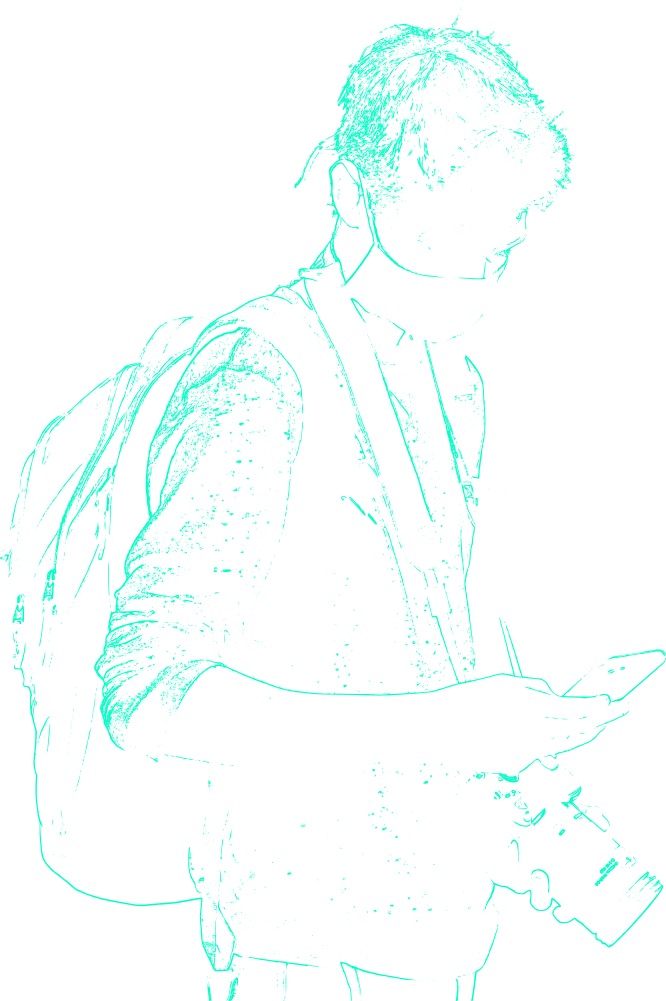
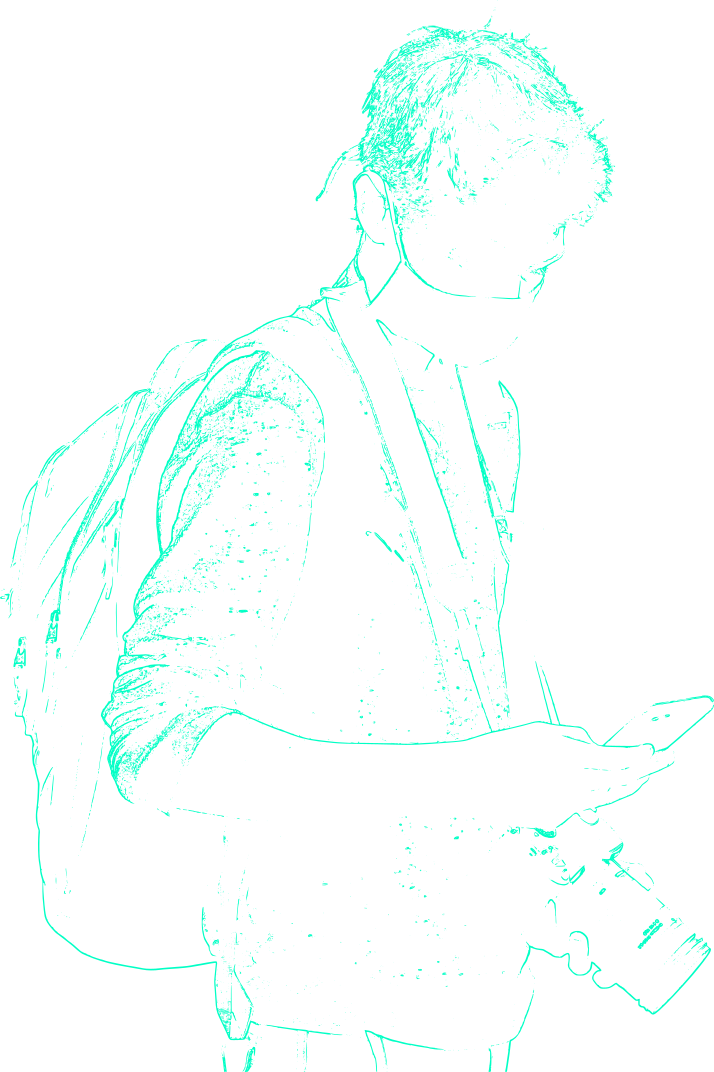
content update

diff --git a/work.html b/work.html
@@ -4,6 +4,7 @@
   <meta name="viewport" content="width=device-width, initial-scale=1">
   <link rel="stylesheet" href="scripts/prism.css">
   <link rel="stylesheet" type="text/css" href="styles.css">
+  <link rel="stylesheet" href="https://cdnjs.cloudflare.com/ajax/libs/font-awesome/4.7.0/css/font-awesome.min.css">
   <script src="scripts/jquery-3.7.0.min.js"></script>
   <script src="scripts/work-script.js"></script>
   <link rel="shortcut icon" type="image/png" href="favicon.png">
@@ -97,14 +98,7 @@
           </div>
           <div class="row">
             <div class="subtitle-text-left">
-              <p1>Source (HTML, CSS, JS)</p1>
-            </div>
-          </div>
-          <div class="row">
-            <div class="source-border">
-              <div class="code-text">
-                <pre data-src="https://raw.githubusercontent.com/7ds3f/7ds3f.github.io/main/placeholder.html"></pre>
-              </div>
+              <p1>< View source <a target="_blank" rel="noopener noreferrer" HREF="https://github.com/7ds3f/genre-viz">HERE.</a> ></p1>
             </div>
           </div>
           <div class="row">
@@ -119,14 +113,7 @@
           </div>
           <div class="row">
             <div class="subtitle-text-left">
-              <p1>Source (HTML, CSS, JS)</p1>
-            </div>
-          </div>
-          <div class="row">
-            <div class="source-border">
-              <div class="code-text">
-                <pre data-src="https://raw.githubusercontent.com/7ds3f/7ds3f.github.io/main/placeholder.html"></pre>
-              </div>
+              <p1>< View source <a target="_blank" rel="noopener noreferrer" HREF="https://github.com/7ds3f/cost-viz">HERE.</a> ></p1>
             </div>
           </div>
           <div class="divider-container">
@@ -141,7 +128,7 @@
             <div class="project-info">Python</div>
           </div>
           <div class="button-text-container">
-            <div class="button-text">Greyscale Spotify Playlist Generator</div>
+            <div class="button-text">Grayscale Spotify Playlist Generator</div>
           </div>
         </button>
         <div id="spotify-bot-cont" class="project-container" hidden>
@@ -150,13 +137,12 @@
                 <p1>This was a personal project with the goal being to learn how to use the Spotify API and to create a customizable
                 alternative to Spotify's auto-generated playlists like Discovery Weekly and the Daily Mixes. Given a list of genres and
                 artists of the user's choosing, this program will populate a playlist with Spotify's recommedation system. The program
-                will add a song only if:
-                (1) its album cover is greyscale, and (2) if it has the appropriate energy level based on the time of day. Spotify
-                generates an "energy" level for every song in its catalog, and this program will add songs with lower "energy" in the morning
+                will add a song only if: (1) its album cover is greyscale, and (2) if it has the appropriate energy level based on the time of day.
+                Spotify generates an "energy" level for every song in its catalog, and this program will add songs with lower "energy" in the morning
                 and songs with higher "energy" in the afternoon/at night. "Energy" represents "a perceptual measure of intensity and activity",
                 according to Spotify's documentation. If the program detects that three iterations have passed without having found any songs
                 that meet this criteria, the program will choose different artists and genres from the given lists for Spotify's recommedation
-                function.</p1>
+                function and raise the required "energy" value cutoffs. I used the Spotipy Python library to access the functions of the Spotify API.</p1>
               </div>
           </div>
           <div class="row">
@@ -178,21 +164,45 @@
             </div>
           </div>
           <div class="row">
+            <div class="subtitle-text-left">
+              <p1>< View source <a target="_blank" rel="noopener noreferrer" HREF="https://github.com/7ds3f/grayscale-pl-gen">HERE.</a> ></p1>
+            </div>
+          </div>
+          <div class="row">
               <div class="description-text">
                 <p1>To determine if an album cover is greyscale, I used the Pillow Python library for image analysis. Using the Spotify API,
                 a song's album cover is downloaded. After it is reduced to a lower resolution, the Pillow libary analyzes the color bands of the
-                album cover to determine if it is greyscale.</p1>
+                album cover to determine if it is greyscale. The code for some of this analysis is from Stack Exchange. See the code below
+                for acknowledgements.</p1>
               </div>
           </div>
           <div class="row">
             <div class="subtitle-text-left">
-              <p1>Source (Python)</p1>
+              <p1>detect_color_image Function</p1>
             </div>
           </div>
           <div class="row">
             <div class="source-border">
               <div class="code-text">
-                <pre data-src="https://raw.githubusercontent.com/7ds3f/7ds3f.github.io/main/placeholder.html"></pre>
+                <pre data-src="https://raw.githubusercontent.com/7ds3f/grayscale-pl-gen/main/image_bw.py"></pre>
+              </div>
+            </div>
+          </div>
+          <div class="row">
+              <div class="description-text">
+                <p1>Below is the vibe_check function that determines the "energy" values of tracks with Spotify's API's audio
+                features function.</p1>
+              </div>
+          </div>
+          <div class="row">
+            <div class="subtitle-text-left">
+              <p1>vibe_check Function</p1>
+            </div>
+          </div>
+          <div class="row">
+            <div class="source-border">
+              <div class="code-text">
+                <pre data-src="https://raw.githubusercontent.com/7ds3f/grayscale-pl-gen/main/main.py" data-range="60,80"></pre>
               </div>
             </div>
           </div>
@@ -208,14 +218,48 @@
             <div class="project-info">C</div>
           </div>
           <div class="button-text-container">
-            <div class="button-text">N-Queen Solver</div>
+            <div class="button-text">N-Queens Solver</div>
           </div>
         </button>
         <div id="n-queen-solver-cont" class="project-container" hidden>
           <div class="row">
               <div class="description-text">
-                <p1>(Coming Soon)</p1>
+                <p1>This was a homework assignment I completed for RPI's Operating Systems course (CSCI 4210).
+                The assignment was to write a multi-process solution to a variation of the n-Queens problem. Given
+                a board of size m x n, this program will report the number of solutions to the n-Queens problem for
+                that specific board. This solution uses a brute force approach with backtracking: fork() is called and
+                a new process is created for every potential queen placement. Read more about the n-Queens problem
+                <a target="_blank" rel="noopener noreferrer" HREF="https://www.geeksforgeeks.org/n-queen-problem-backtracking-3/#">HERE.</a>
+                The program can also be compiled with two different precompiler flags. If compiled with the "QUIET" flag,
+                the program displays only the first two lines and the final line of output in the top-level parent process.
+                If compiled with the "NO_PARALLEL" flag, the program will use a waitpid() call, which will prevent child processes from running in parallel.</p1>
               </div>
+          </div>
+          <div class="row">
+            <div class="column">
+              <div class="subtitle-text-left">
+                <p1>Algorithm Diagram</p1>
+              </div>
+              <div class="img-wrapper">
+                <img src="media/code/n-queens/n-queens-algorithm.jpg" loading="lazy"/>
+              </div>
+            </div>
+            <div class="column">
+              <div class="subtitle-text-left">
+                <p1>Terminal Output</p1>
+              </div>
+              <div class="img-wrapper">
+                <img src="media/code/n-queens/n-queens-terminal-2.jpg" loading="lazy"/>
+              </div>
+              <div class="img-wrapper">
+                <img src="media/code/n-queens/n-queens-terminal-1.jpg" loading="lazy"/>
+              </div>
+            </div>
+          </div>
+          <div class="row">
+            <div class="subtitle-text-left">
+              <p1>< View assignment PDF <a target="_blank" rel="noopener noreferrer" HREF="https://drive.proton.me/urls/W5RSPFC8AG#ZAotJt6HAN94">HERE.</a> ></p1>
+            </div>
           </div>
           <div class="divider-container">
             <div class="media-divider"></div>
@@ -235,7 +279,9 @@
         <div id="rpi-campus-map-cont" class="project-container" hidden>
           <div class="row">
               <div class="description-text">
-                <p1>(Coming Soon)</p1>
+                <p1>This was a homework assignment I completed for RPI's Principles of Software course (CSCI 2600).
+                The assignment was to use a previously implemented Graph class to store a make determinations about
+                location data for buildings on the RPI campus.</p1>
               </div>
           </div>
           <div class="divider-container">
@@ -256,8 +302,34 @@
         <div id="tcp-wordle-server-cont" class="project-container" hidden>
           <div class="row">
               <div class="description-text">
-                <p1>(Coming Soon)</p1>
+                <p1>This was a homework assignment I completed for RPI's Operating Systems course (CSCI 4210).
+                The assignment was to implement a single-process multi-threaded TCP server for the Wordle word game.
+                In case you've never played Wordle, you can play it <a target="_blank" rel="noopener noreferrer" HREF="https://www.nytimes.com/games/wordle">HERE.</a>
+                Using POSIX threads, the server is able to handle mutiple client connections in parallel.</p1>
               </div>
+          </div>
+          <div class="row">
+            <div class="column">
+              <div class="subtitle-text-left">
+                <p1>Server Client Output</p1>
+              </div>
+              <div class="img-wrapper">
+                <img src="media/code/tcp-wordle-server/tcp-wordle-server-client.jpg" loading="lazy"/>
+              </div>
+            </div>
+            <div class="column">
+              <div class="subtitle-text-left">
+                <p1>Server Output</p1>
+              </div>
+              <div class="img-wrapper">
+                <img src="media/code/tcp-wordle-server/tcp-wordle-server-server.jpg" loading="lazy"/>
+              </div>
+            </div>
+          </div>
+          <div class="row">
+            <div class="subtitle-text-left">
+              <p1>< View assignment PDF <a target="_blank" rel="noopener noreferrer" HREF="https://drive.proton.me/urls/FXEQG5S6BG#EKvkxv2FXhV9">HERE.</a> ></p1>
+            </div>
           </div>
           <div class="divider-container">
             <div class="media-divider"></div>
@@ -277,7 +349,11 @@
         <div id="my-website-cont" class="project-container" hidden>
           <div class="row">
               <div class="description-text">
-                <p1>(Coming Soon)</p1>
+                <p1>willbordman.com is the first website I've built. It's been ton of fun creating
+                these webpages and aggregating the work I've done over the past few years. View this
+                website's source <a target="_blank" rel="noopener noreferrer" HREF="https://github.com/7ds3f/7ds3f.github.io">HERE.</a>
+                All source code for this website is my own. Please don't hesitate to contact me if
+                you find any issues with this website or content! This website is still a work in progress.</p1>
               </div>
           </div>
           <div class="divider-container">

diff --git a/styles.css b/styles.css
@@ -17,11 +17,11 @@ body {
 }
 
 #index-page-body {
-  background-image: url("background.png");
+  background-image: url("media/background.png");
   background-size: auto;
   background-repeat: no-repeat;
   background-position: top;
-  background-blend-mode: soft-light;
+  background-blend-mode: overlay;
 }
 
 h1 {
@@ -395,28 +395,28 @@ a:active { text-decoration: none; }
 #n-queen-solver {
   background: linear-gradient(to bottom, rgba(0, 23, 31, 0.2), rgba(0, 23, 31, 1)),
     linear-gradient(to right, rgba(0, 23, 31, 0.2), rgba(0, 23, 31, 0.5) 20%, rgba(0, 23, 31, 1) 60%),
-    url("media/code/interactive-data-viz/genre-viz.png") no-repeat left center;
+    url("media/code/n-queens/n-queens-cover.jpg") no-repeat left center;
   background-size: cover;
 }
 
 #rpi-campus-map {
   background: linear-gradient(to bottom, rgba(0, 23, 31, 0.2), rgba(0, 23, 31, 1)),
     linear-gradient(to right, rgba(0, 23, 31, 0.2), rgba(0, 23, 31, 0.5) 20%, rgba(0, 23, 31, 1) 60%),
-    url("media/code/interactive-data-viz/genre-viz.png") no-repeat left center;
+    url("media/code/rpi-campus-map/rpi-campus-map-cover.jpg") no-repeat left center;
   background-size: cover;
 }
 
 #tcp-wordle-server {
   background: linear-gradient(to bottom, rgba(0, 23, 31, 0.2), rgba(0, 23, 31, 1)),
     linear-gradient(to right, rgba(0, 23, 31, 0.2), rgba(0, 23, 31, 0.5) 20%, rgba(0, 23, 31, 1) 60%),
-    url("media/code/interactive-data-viz/genre-viz.png") no-repeat left center;
+    url("media/code/tcp-wordle-server/tcp-wordle-server-cover.jpg") no-repeat left center;
   background-size: cover;
 }
 
 #my-website {
   background: linear-gradient(to bottom, rgba(0, 23, 31, 0.2), rgba(0, 23, 31, 1)),
     linear-gradient(to right, rgba(0, 23, 31, 0.2), rgba(0, 23, 31, 0.5) 20%, rgba(0, 23, 31, 1) 60%),
-    url("media/code/interactive-data-viz/genre-viz.png") no-repeat left center;
+    url("media/background.png") no-repeat left center;
   background-size: cover;
 }
 
@@ -668,7 +668,7 @@ a:active { text-decoration: none; }
   padding-top: 5px;
 }
 
-@media screen and (max-aspect-ratio: 16/9) {
+@media screen and (max-aspect-ratio: 9/16) {
   .column {
     flex-basis: 100%; /* Change the flex-basis to 100% to make items stack vertically */
   }

diff --git a/about.html b/about.html
@@ -28,7 +28,7 @@
           </div>
           <div class="column">
             <div class="img-wrapper">
-              <img src="media/self-portrait.png"/>
+              <img src="media/self-portrait-2.png"/>
             </div>
           </div>
         </div>
